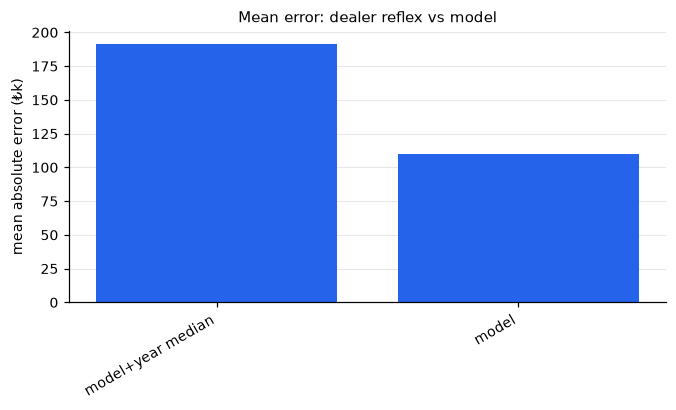
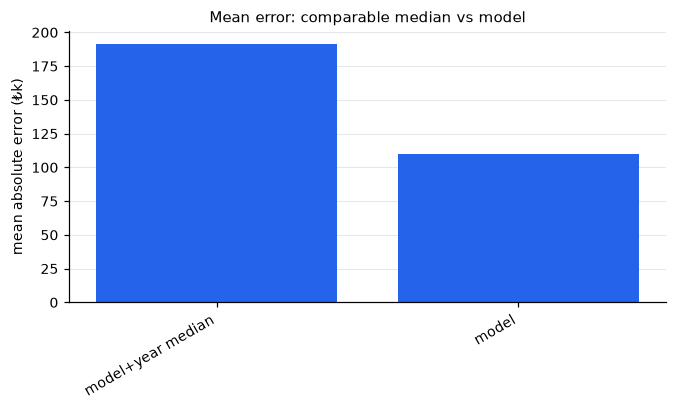
feat(reports): sync the generator's latest, try a slim rail on a trial page
Sync: the technical report gains a chapter — §10, free text measured but not
included — and the decision note renames the dealer's reflex to the comparable
median, spelling it out as the middle price of the same model and year. The
00-base-vs-model figure follows that wording in both languages. SHAP is unchanged.
Sixty-four slugs referenced, sixty-four published, all byte-identical.

The rail: the Reports block lists all three documents including the one being read,
and sits above the contents, which is the thing a reader actually uses while reading.
Deleting it outright was the first idea, but report pages carry no project sidebar —
that block is their only sideways move, and without it the technical report is three
clicks from the decision note.

So NotebookShell takes a `rail` prop instead. It defaults to 'full', which is exactly
what the three published pages render today — they are untouched. 'slim' drops the
label and the pills, puts the other two reports on one quiet line under the back
link, and lets the contents start immediately.

report/preview is a temporary page to judge that shape. It renders the technical
report because that is the hard case: 37 contents entries, so the rail scrolls and
anything parked below the contents falls off the fold — which is why the slim links
sit above it rather than under. The page is absent from site.pages, so it never
reaches the sitemap, and it answers noindex; its kicker says what it is.
[…]

Changed region(s): [[0.3107, 0.0293, 0.7766, 0.0585]]

diff --git a/app/_site/reports/NotebookShell.tsx b/app/_site/reports/NotebookShell.tsx
@@ -16,9 +16,9 @@ import { localize, LangSwitch } from '../i18n';
 // their source is kept, so the copies stay apart. The look is the live one, class for class:
 // same ground, same rail, contents grouped under chapter labels.
 //
-// One addition over that shell: a Reports switcher above the contents. These pages do not use
-// FinalShell, whose sidebar is how you move between the project's pages, so without it the only
-// way from one report to the other would be back out through the project.
+// One addition over that shell: links to the sibling reports. These pages do not use FinalShell,
+// whose sidebar is how you move between the project's pages, so without them the only way from
+// one report to another would be back out through the project. The `rail` prop picks the shape.
 
 /** A chapter band (level 2, h2) or a section inside one (level 3, h3); see report-source.ts. */
 type TocItem = { id: string; title: string; level: 2 | 3; n: string };
@@ -33,9 +33,13 @@ const REPORTS = [
 export type ReportKey = (typeof REPORTS)[number]['key'];
 
 export default function NotebookShell({
-    active, lang, title, contentKey, children,
+    active, lang, title, contentKey, children, rail = 'full',
 }: {
     active: ReportKey;
+    /** 'full' = the labelled Reports block above the contents (what the three live pages use).
+     *  'slim' = the other two reports as one quiet line under the back link, contents straight
+     *  after. Being tried on report/preview before it touches anything published. */
+    rail?: 'full' | 'slim';
     lang: Lang;
     title: string;
     /** Changes whenever the rendered document changes (language switch), so contents rebuild. */
@@ -162,31 +166,52 @@ export default function NotebookShell({
         </Link>
     );
 
-    // Styled as one more chapter of the rail (label + items), so it reads as part of the live
-    // rail rather than a second navigation bolted on; a hairline separates it from the contents.
+    // The siblings, minus the one being read — a reader already on the technical report does not
+    // need it listed back at them. Report pages carry no project sidebar, so this is the only
+    // sideways move they have; that is why the slim shape trims it rather than dropping it.
+    const siblings = REPORTS.filter((r) => r.key !== active);
+
+    // full: a labelled block styled as one more chapter of the rail, above the contents.
+    // slim: one quiet line under the back link, so the contents starts immediately.
+    const reportsFull = (
+        <div className="mb-4 border-b border-[#ece9e3] pb-4">
+            <div className="mb-1.5 font-mono text-[10px] uppercase leading-snug tracking-[0.12em] text-[#86857e]">{L('Raporlar', 'Reports')}</div>
+            <ul className="space-y-0.5 text-[13px]">
+                {REPORTS.map((r) => {
+                    const on = r.key === active;
+                    return (
+                        <li key={r.key}>
+                            <Link
+                                href={localize(r.href, lang)}
+                                onClick={() => setDrawer(false)}
+                                aria-current={on ? 'page' : undefined}
+                                className={`block w-full rounded-[6px] px-2.5 py-1.5 text-left leading-snug transition-colors ${on ? 'bg-[#e7f3ec] font-semibold text-[#047857]' : 'text-[#5f5f5a] hover:bg-[#f1efe9] hover:text-[#1a1a1a]'}`}
+                            >
+                                {L(r.tr, r.en)}
+                            </Link>
+                        </li>
+                    );
+                })}
+            </ul>
+        </div>
+    );
+
+    const reportsSlim = (
+        <div className="mb-5 flex flex-wrap items-center gap-x-2 gap-y-1 font-mono text-[11px] text-[#9a9a92]">
+            {siblings.map((r, i) => (
+                <span key={r.key} className="flex items-center gap-2">
+                    {i > 0 && <span aria-hidden="true">·</span>}
+                    <Link href={localize(r.href, lang)} onClick={() => setDrawer(false)} className="transition-colors hover:text-[#047857]">
+                        {L(r.tr, r.en)}
+                    </Link>
+                </span>
+            ))}
+        </div>
+    );
+
     const nav = (
         <>
-            <div className="mb-4 border-b border-[#ece9e3] pb-4">
-                <div className="mb-1.5 font-mono text-[10px] uppercase leading-snug tracking-[0.12em] text-[#86857e]">{L('Raporlar', 'Reports')}</div>
-                <ul className="space-y-0.5 text-[13px]">
-                    {REPORTS.map((r) => {
-                        const on = r.key === active;
-                        return (
-                            <li key={r.key}>
-                                <Link
-                                    href={localize(r.href, lang)}
-                                    onClick={() => setDrawer(false)}
-                                    aria-current={on ? 'page' : undefined}
-                                    className={`block w-full rounded-[6px] px-2.5 py-1.5 text-left leading-snug transition-colors ${on ? 'bg-[#e7f3ec] font-semibold text-[#047857]' : 'text-[#5f5f5a] hover:bg-[#f1efe9] hover:text-[#1a1a1a]'}`}
-                                >
-                                    {L(r.tr, r.en)}
-                                </Link>
-                            </li>
-                        );
-                    })}
-                </ul>
-            </div>
-
+            {rail === 'full' && reportsFull}
             <TocNav toc={toc} activeId={activeId} onGo={goTo} label={L('İçindekiler', 'Contents')} />
         </>
     );
@@ -217,7 +242,8 @@ export default function NotebookShell({
                                 <button aria-label={L('Kapat', 'Close')} className="flex h-8 w-8 items-center justify-center rounded-lg text-[#5f5f5a] hover:bg-[#f1efe9]"><X size={18} /></button>
                             </Dialog.Close></div>
                         </div>
-                        {back}
+                    {back}
+                    {rail === 'slim' && reportsSlim}
                         {nav}
                     </Dialog.Content>
                 </Dialog.Portal>
@@ -229,6 +255,7 @@ export default function NotebookShell({
                     {/* the site language, reachable from the report itself — these pages are outside FinalShell */}
                     <div className="mb-4 flex items-center justify-between gap-2"><Monogram /><LangSwitch /></div>
                     {back}
+                    {rail === 'slim' && reportsSlim}
                     <div className="mb-5 h-[3px] w-full overflow-hidden rounded-full bg-[#ece9e3]">
                         <div ref={progressRef} className="h-full rounded-full bg-[#047857]" style={{ width: '0%' }} />
                     </div>

diff --git a/app/[lang]/projects/car-price/report/preview/page.tsx b/app/[lang]/projects/car-price/report/preview/page.tsx
@@ -1,0 +1,36 @@
+import type { Metadata } from 'next';
+import ReportView from '@/app/_site/reports/ReportView';
+import { getReport, type ReportLang } from '@/app/_site/reports/report-source';
+import type { LangParams } from '@/app/_site/seo';
+
+// TEMPORARY — a trial of NotebookShell's slim rail, so the shape can be judged without touching
+// any published page. It renders the technical report because that is the hard case: 37 contents
+// entries, so the rail scrolls and anything parked under the contents falls below the fold.
+//
+// It is deliberately absent from site.pages, so it never enters the sitemap, and it answers
+// noindex. The kicker says what it is; nothing here should be mistaken for real content.
+//
+// Keeping the slim rail → give the three real routes rail="slim" (or flip the default) and delete
+// this directory. Dropping it → delete this directory and the `rail` prop in NotebookShell and
+// ReportView. Either way this file goes.
+
+export const metadata: Metadata = {
+    title: { absolute: 'Rail trial' },
+    robots: { index: false, follow: false },
+};
+
+export default async function Page({ params }: LangParams) {
+    const { lang } = await params;
+    const doc = await getReport('car-price', 'technical', lang as ReportLang);
+    const tr = lang === 'tr';
+    return (
+        <ReportView
+            kind="car-price"
+            active="report-technical"
+            rail="slim"
+            kicker={tr ? 'Deneme sayfası · sadeleştirilmiş raf' : 'Trial page · slim rail'}
+            title={tr ? 'Teknik rapor' : 'Technical report'}
+            doc={doc}
+        />
+    );
+}

diff --git a/app/_site/reports/ReportView.tsx b/app/_site/reports/ReportView.tsx
@@ -20,12 +20,13 @@ type Doc = { blocks: Block[]; words: number; figures: number; generated: string 
 // inlined into every page's HTML. Until it lands, each figure shows the PNG the pipeline
 // generated — so there is never an empty slot where a chart should be.
 
-export default function ReportView({ kind, active, kicker, title, doc }: {
+export default function ReportView({ kind, active, kicker, title, doc, rail }: {
     kind: 'car-price' | 'text-analysis';
     active: ReportKey;
     kicker: string;
     title: string;
     doc: Doc;
+    rail?: 'full' | 'slim';
 }) {
     const lang = useLang().lang as ReportLang;
     const [data, setData] = useState<Record<string, unknown> | null>(null);
@@ -43,7 +44,7 @@ export default function ReportView({ kind, active, kicker, title, doc }: {
 
 
     return (
-        <NotebookShell active={active} lang={lang} title={title} contentKey={kind + ':' + active + ':' + lang}>
+        <NotebookShell active={active} rail={rail} lang={lang} title={title} contentKey={kind + ':' + active + ':' + lang}>
             <div className="mb-7 border-b border-[#e9e7e2] pb-5">
                 <div className="mb-2 font-mono text-[12px] font-medium uppercase tracking-[0.14em] text-[#047857]">{kicker}</div>
                 <h1 className="text-[28px] font-bold tracking-[-0.041em] text-[#1a1a1a] md:text-[34px]">{title}</h1>

diff --git a/content/reports/car-price/technical.tr.md b/content/reports/car-price/technical.tr.md
@@ -1,10 +1,10 @@
 # İkinci El Araç Piyasası Analizi — Teknik Rapor
 
-Bu rapor iki soruya yanıt arar: İkinci el araç fiyatını ne belirler ve model bunu ne kadar isabetle öngörebilir? Analiz; **29.988** TR plakalı BMW/Audi ilanında veri temizliği ve sızıntı kontrolünden geçerek kontrollü fiyat etkileri, piyasa yapısı, model karşılaştırması ve zamansal testleri ortaya koyar. LightGBM ortalama **%6.5** sapmayla (MAE: **₺110K**, R²: **0.9744**) çalışarak aynı model ve yılın medyanına göre **%42** daha iyi sonuç verir. Paylaşılan tüm metrikler, modelin daha önce görmediği veriler üzerinden **5-fold out-of-fold** kurgusuyla hesaplanmıştır.
+Bu rapor iki soruya yanıt arar: İkinci el araç fiyatını ne belirler ve model bunu ne kadar isabetle öngörebilir? Analiz; **29.988** TR plakalı BMW/Audi ilanında veri temizliği ve sızıntı kontrolünden geçerek kontrollü fiyat etkileri, piyasa yapısı, model karşılaştırması ve zamansal testleri ortaya koyar. LightGBM ortalama **%6.5** yüzde hatayla (MAE: **₺110K**, R²: **0.9744**) çalışarak aynı model ve yılın medyanına göre **%42** daha iyi sonuç verir. Paylaşılan tüm metrikler, modelin daha önce görmediği veriler üzerinden **5-fold out-of-fold** kurgusuyla hesaplanmıştır.
 
 ## 1. Veri temizleme ve sızıntı tespiti
 
-**45.159 snapshot → 29.988 ilan.** Aradaki 15.171 satır aynı ilanın tekrar taranması — veri değil, tarama artığı. `ad_id` başına en son snapshot alındı.
+**Toplam 45.159 tarama kaydı → 29.988 ilan.** Aradaki 15.171 satır aynı ilanın tekrar taranması — veri değil, tarama artığı. `ad_id` başına en son kayıt alındı.
 
 Medyan ilan fiyatı ₺1.54M, ₺0.84M–₺3.42M arası (P10–P90).
 
@@ -14,9 +14,9 @@ Medyan ilan fiyatı ₺1.54M, ₺0.84M–₺3.42M arası (P10–P90).
 
 | kalem | değer |
 |---|---:|
-| ham satır (tüm snapshot'lar) | 45.159 |
+| ham satır (tüm taramalar) | 45.159 |
 | tekil ilan (`ad_id` dedup) | 29.988 |
-| dönem | 4 (2026-01-18 – 2026-06-27) |
+| tarama dönemi | 4 (2026-01-18 – 2026-06-27) |
 | modele giren öznitelik | 25 |
 | BMW / Audi | 17.896 / 12.092 |
 | hedef | `log1p(price)` |
@@ -25,7 +25,7 @@ Medyan ilan fiyatı ₺1.54M, ₺0.84M–₺3.42M arası (P10–P90).
 
 1. **Yapısal** — yaş · km · motor gücü/hacmi · kasa · yakıt · vites · çekiş · segment.
 2. **Hasar / ekspertiz** — her kaporta paneli × {değişen, boyalı, lokal boya} + tramer + ağır hasar.
-3. **Serbest metin** — satıcı açıklaması; modelde **kullanılmıyor**. Ayrı bir çalışmada ölçüldü: yapısal modele metin öznitelikleri eklendiğinde çapraz-doğrulamalı doğrulukta ölçülebilir bir katkı bulunamadı, o yüzden bu rapora girmiyor.
+3. **Serbest metin** — satıcı açıklaması; modelde **kullanılmıyor**. Ölçüldü, katkı çıkmadı; ayrıntısı §10'da.
 
 ### Tutulan öznitelikler (25)
 
@@ -414,7 +414,7 @@ Hedonik model dönem kuklalarıyla zamanı kontrol eder: aynı araç için fiyat
 | 01-27 → 06-27 | %7.31 | 10.313 | ≤01-27 → 06-27 | %7.35 | 10.257 |
 | 03-21 → 06-27 | %7.06 | 9.099 | ≤03-21 → 06-27 | %6.96 | 8.889 |
 
-Tek dönem = yalnız bir snapshot'ta eğit, sonrakini tahmin et. Kümülatif = t'ye kadarki tüm snapshot'larda eğit. Test kümesi yalnız eğitimde hiç görülmemiş `ad_id`'ler (sızıntısız); bu yüzden kümülatif n tek dönemden küçük ya da eşit. Aynı eğitim döneminden test ufku uzadıkça hata büyüyor.
+Tek dönem = yalnız bir taramada eğit, sonrakini tahmin et. Kümülatif = t'ye kadarki tüm taramalarda eğit. Test kümesi yalnız eğitimde hiç görülmemiş `ad_id`'ler (sızıntısız); bu yüzden kümülatif n tek dönemden küçük ya da eşit. Aynı eğitim döneminden test ufku uzadıkça hata büyüyor.
 
 ### Dönem başına OOF
 
@@ -452,4 +452,14 @@ Tek dönem = yalnız bir snapshot'ta eğit, sonrakini tahmin et. Kümülatif = t
 ![Fiyat dağılımı — dönemlere göre](figures/tr-13-drift-hist.png)
 
 ![Log-fiyat yoğunluğu — dönemlere göre](figures/tr-14-drift-kde.png)
+
+## 10. Serbest metin: ölçüldü, dahil edilmedi
+
+Satıcı açıklaması modele **girmiyor**. Bu bir ihmal değil, ölçüm sonucu: aynı çapraz-doğrulama protokolünde yapısal model R² **0.9645**, üstüne metin öznitelikleri eklenince **0.966** — ΔR² **0.0015**. Formda zaten olan bilginin üstüne metin doğruluk eklemiyor.
+
+Metinden yapılandırılmış bilgi çıkarmak ayrıca denendi: **LangExtract** kütüphanesi ve **gemini-3.1-flash-lite** ile ilan metinlerindeki hasar, bakım ve modifiye ifadeleri parça ve durum niteliğiyle çıkarıldı.
+
+Bu çıkarımlar ne modele ne rapora girdi, çünkü **doğrulukları ölçülemedi**. Ölçmek için zor/orta/kolay ilanlardan dengeli bir doğrulama kümesi kurup elle etiketlemek gerekiyor; o emek harcanmadan modelin ne zaman yanıldığı bilinmiyor. Ölçemediğimiz bir sinyalin üstüne karar kurulmadı.
+
+Yapılması gereken belli: çıkarımlar önce doğrulanmalı, sonra modele **temiz sinyal** olarak verilip katkısı aynı protokolle test edilmeli. İki engel var. Birincisi **örneklem**: modifiye ya da ağır bakım geçmiş ilan korpusun küçük bir bölümü; yeterli örnek yoksa model bu sinyali öğrenemez, gürültüye karışır. İkinci yol sinyali modele hiç vermeden bu ilanları **veriden çıkarmak** ve hata payının ne kadar düştüğünü ölçmek. Hangisi seçilirse seçilsin, sonuç **canlı ilanlarda** da sınanmadan kabul edilmemeli.
 

diff --git a/content/reports/car-price/technical.en.md b/content/reports/car-price/technical.en.md
@@ -25,7 +25,7 @@ Median asking price ₺1.54M, ranging ₺0.84M–₺3.42M (P10–P90).
 
 1. **Structural** — age · km · engine power/size · body · fuel · transmission · drivetrain · segment.
 2. **Damage / inspection** — every body panel × {changed, painted, local paint} + tramer record + heavy damage.
-3. **Free text** — the seller's description; **not used** by the model. It was measured in a separate study: adding text features to the structured model produced no measurable gain in cross-validated accuracy, so it does not enter this report.
+3. **Free text** — the seller's description; **not used** by the model. It was measured and added nothing; the detail is in §10.
 
 ### Kept features (25)
 
@@ -452,4 +452,14 @@ Single = train on one snapshot, predict a later one. Cumulative = train on every
 ![Price distribution by snapshot](figures/en-13-drift-hist.png)
 
 ![Log-price density by snapshot](figures/en-14-drift-kde.png)
+
+## 10. Free text: measured, left out
+
+The seller's description does **not** enter the model. That is a measurement, not an oversight: under the same cross-validation protocol the structural model scores R² **0.9645** and adding text features gives **0.966** — ΔR² **0.0015**. On top of what the form already carries, text adds no accuracy.
+
+Pulling structured facts out of the text was tried separately: **LangExtract** with **gemini-3.1-flash-lite** extracted damage, maintenance and modification phrases from the ad text, each with a part and a state attribute.
+
+None of it entered the model or this report, because **its accuracy could not be measured**. Measuring it needs a balanced validation set of easy, medium and hard listings, labelled by hand; without that work there is no way to know when the extraction is wrong. We did not build decisions on a signal we could not measure.
+
+What it would take is clear: validate the extractions, then feed them to the model as a **clean signal** and test the gain under the same protocol. Two obstacles. First **sample size**: modified or heavily serviced cars are a small slice of the corpus, and with too few examples the model cannot learn the signal — it stays noise. The other route is to keep the signal out of the model and **drop those listings from the data**, then measure how far the error falls. Either way the result has to be tested on **live listings** before it is trusted.
 

diff --git a/content/reports/car-price/business.tr.md b/content/reports/car-price/business.tr.md
@@ -4,11 +4,11 @@
 
 ## Ne kadar değerinde?
 
-Galerinin refleksi — *aynı model, aynı yıl, medyana bak* — ortalama **₺191K** yanılıyor; model **₺110K** — **%42 daha iyi**, araç başına **₺81K**. 100 araçlık bir stokta bu, yaklaşık **₺8M**'lik fiyatlama hatası farkı demek.
+**Emsal medyanı** — *aynı model, aynı yılın ortadaki fiyatı* — ortalama **₺191K** yanılıyor; model **₺110K** — **%42 daha iyi**, araç başına **₺81K**. 100 araçlık bir stokta bu, yaklaşık **₺8M**'lik fiyatlama hatası farkı demek.
 
 Farkı kapatan, model ve yılın ötesi: kilometre, hasar, motor.
 
-![Ortalama hata: galeri refleksi vs model](figures/tr-00-base-vs-model.png)
+![Ortalama hata: emsal medyanı vs model](figures/tr-00-base-vs-model.png)
 
 **Emsal yoksa taban çöküyor** — en alt basamakta ortalama hata, model+yıl basamağının **6.1 katı**. Model de emsalsiz araçta zorlanıyor (aşağıda):
 

diff --git a/content/reports/car-price/business.en.md b/content/reports/car-price/business.en.md
@@ -4,11 +4,11 @@
 
 ## What's it worth?
 
-A dealer's reflex — *same model, same year, look at the median* — misses by **₺191K** on average; the model by **₺110K** — **42% better**, **₺81K** per car. Across a 100-car stock that is about **₺8M** of pricing error.
+**The comparable median** — *the middle price of the same model and year* — misses by **₺191K** on average; the model by **₺110K** — **42% better**, **₺81K** per car. Across a 100-car stock that is about **₺8M** of pricing error.
 
 The gap it closes is everything beyond model and year: mileage, damage, engine.
 
-![Mean error: dealer reflex vs model](figures/en-00-base-vs-model.png)
+![Mean error: comparable median vs model](figures/en-00-base-vs-model.png)
 
 **Without a comparable the baseline collapses** — mean error at the bottom tier is **6.1×** the top. The model struggles without comparables too (below):
 
